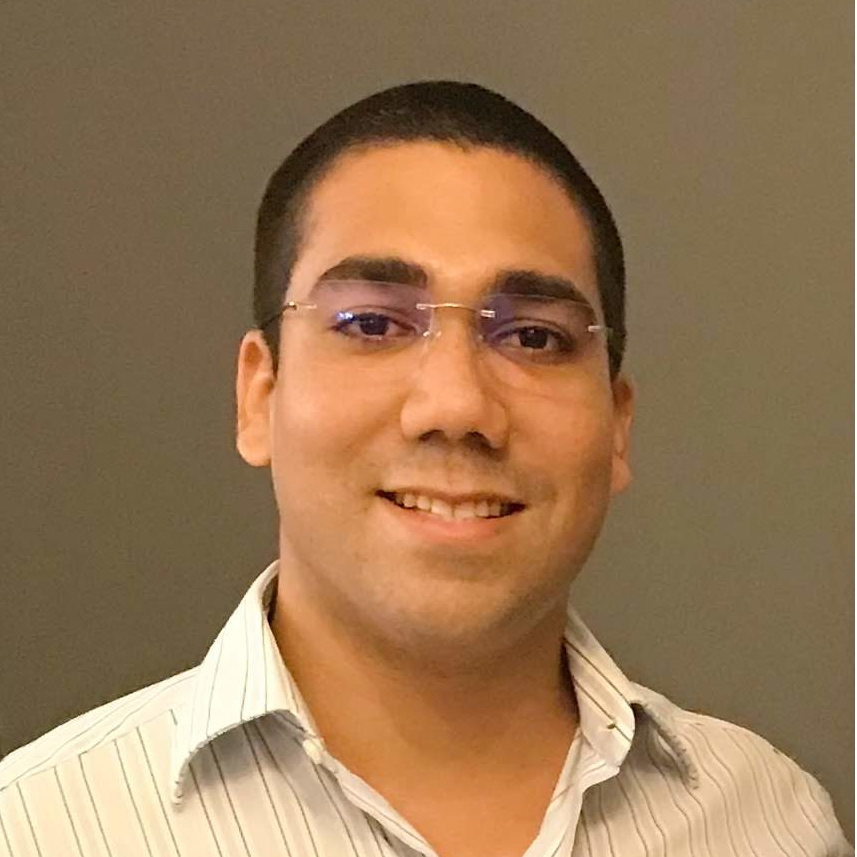
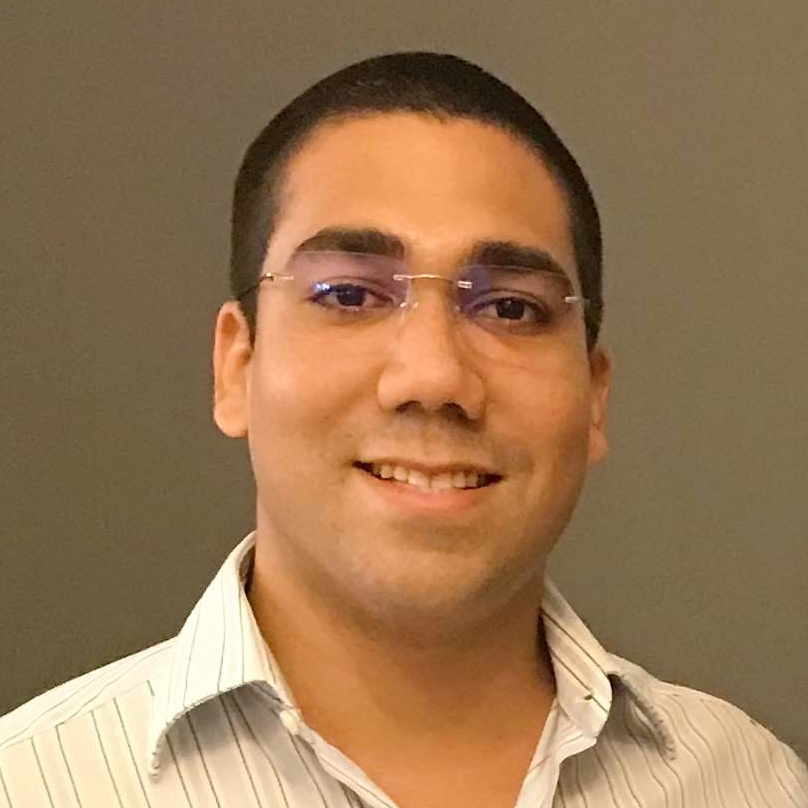
att portfolio

diff --git a/sobre.html b/sobre.html
@@ -1,0 +1,62 @@
+<!DOCTYPE html>
+<html lang="en">
+<head>
+    <meta charset="UTF-8">
+    <meta name="viewport" content="width=device-width, initial-scale=1.0">
+    <title>Edivaldo Jr | Dev</title>
+    <link rel="shortcut icon" href="src/img/logo eddistech.PNG" type="image/x-icon">
+    <link rel="stylesheet" href="src/style/style.css">
+    <link rel="stylesheet" href="src/style/style1.css">
+</head>
+<body>
+    <nav class="menu-nav">
+        <div class="logo">
+            <a href="index.html"><img src="src/img/logo eddistech.PNG" alt="" class="eddistech"></a>
+        </div>
+        <ul>
+            <li>
+                Projetos
+            </li>
+            <li>
+                <a href="sobre.html" class="sobre">Sobre</a>
+            </li>
+        </ul>
+    </nav>
+    <section class="project-area">
+        <div class="about">
+            <div class="inf">
+                <p>
+                    Desde que me interessei na área da programação, estudo diariamente para conseguir a minha primeira oportunidade.
+                </p>
+                <p>
+                    Há 8 meses venho desenvolvendo diversos projetos para colocar em prática todo o meu conhecimento e tenho certeza de que estou pronto para somar na sua equipe de programadores.
+                </p>
+                 <p>
+                    Tenho facilidade de aprendizado, boa comunicação, e a todo momento busco me aprimorar cada vez mais.
+                </p>
+            </div>
+            
+            <div class="img-about">
+                <img src="src/img/Foto-perfil.png" alt="">
+            </div>
+        </div>        
+    </section>
+    <aside class="menu-lateral">
+        <ul>
+            <li>
+                <a href="https://github.com/edivaldojrdev" target="_blank">
+                    <img src="src/img/github.svg" alt="" class="icone">
+                </a>
+            </li>
+            <li>
+                <a href="https://www.linkedin.com/in/edivaldojrdev" target="_blank">
+                    <img src="src/img/linkedin-in.svg" alt="" class="icone">
+                </a>
+            </li>
+        </ul>
+    </aside>
+    <footer>
+
+    </footer>            
+</body>
+</html>

diff --git a/src/style/style.css b/src/style/style.css
@@ -29,7 +29,6 @@ body{
     width: 100%;
 }
 .sobre{
-
     text-decoration: none;
     color: white;
 }
@@ -37,6 +36,7 @@ body{
     text-decoration: none;
     color: white;
 }
+/*--- Área dos Projetos ---*/
 .project-area{
     display: flex;
     background-color: black;
@@ -49,10 +49,6 @@ body{
     width: 90vw;
     flex-wrap: wrap;    
 }
-.img{
-    width: 300px;
-    height: 300px;
-}
 .project{
     width: 300px;
     height: 300px;
@@ -62,7 +58,7 @@ body{
     border: 1px solid black;
     margin: 20px;
 }
-
+/*--- Menu Lateral---*/
 .menu-lateral{
     position: fixed;
     top: 0;

diff --git a/src/style/style1.css b/src/style/style1.css
@@ -1,0 +1,17 @@
+.about{
+    display: flex;
+}
+.inf{
+    padding: 20px;
+}
+p{
+    width: 600px;
+    padding: 10px;
+    line-height: 1.5rem;
+    letter-spacing: 0.09rem;
+    text-align: left;
+}
+img{
+    width: 500px;
+    border-radius: 10px;
+}
